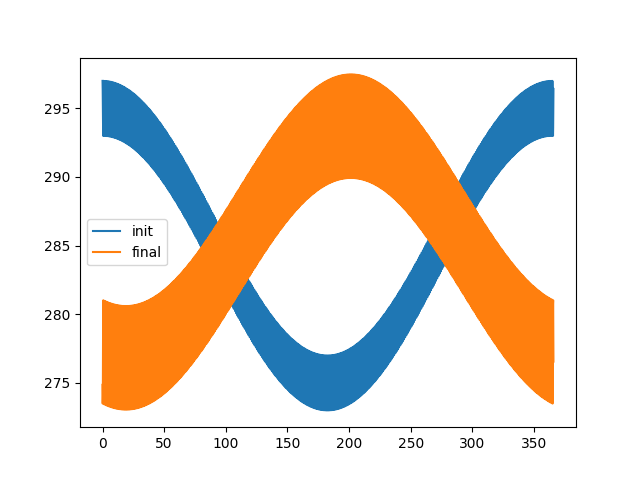
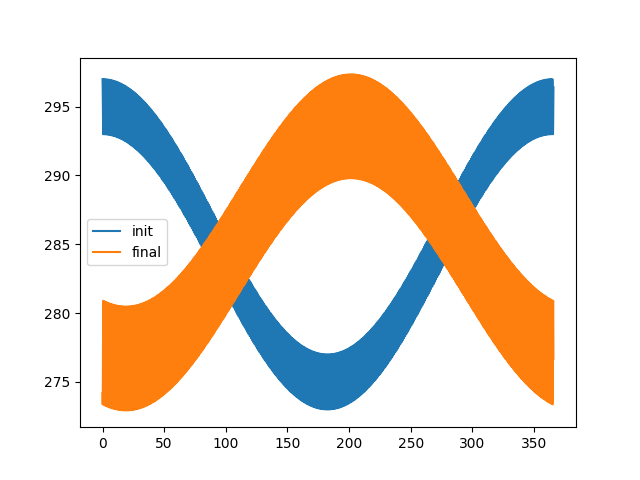
test 2 cosinus sur nouvelle bdd

diff --git a/donnees_collecte/meteo_france/analyse_station_unique/descente_cosinus/descente_cosinus.py b/donnees_collecte/meteo_france/analyse_station_unique/descente_cosinus/descente_cosinus.py
@@ -3,7 +3,7 @@ from matplotlib import pyplot as plt
 import numpy as np
 
 delta = 10**(-3)
-alpha = [1, 1, 1, 1, 0.1, 0.1, 0.1]
+alpha = [1, 1, 1, 0.1, 0.1]
 
 with open('../temperature.json') as jsonfile :
 	temperature = json.load(jsonfile)
@@ -20,7 +20,7 @@ dates.sort()
 
 
 def fct_test(X, x) :
-	return X[0]*np.cos(2*np.pi*x + X[4]) + X[1]*np.cos(2*np.pi*x/365 + X[5]) + X[2]*np.cos(4*np.pi*x + X[6]) + X[3]
+	return X[0]*np.cos(2*np.pi*x + X[3]) + X[1]*np.cos(2*np.pi*x/365 + X[4]) + X[2]
 
 def ecart_temperature(temperature_test) :
 	ecarts_temperature = 0
@@ -33,7 +33,7 @@ def ecart_temperature(temperature_test) :
 	return (ecarts_temperature/compt)**(1/2)
 
 
-X = np.array([2.0,10.0,0.0,285.0,0.0,0.0,0.0])
+X = np.array([2.0,10.0,285.0,0.0,0.0])
 # A,B,C,D,phi1,phi2,phi3
 # Acos(w1t + phi1) + Bcos(w2t+phi2) + Ccos(w3t+phi3) + D
 #w1 jour w2 annee w3 demi-journee
@@ -45,7 +45,7 @@ for i in range(100) :
 	val_actuel_ecart = ecart_temperature([dates,val_actuel])
 	if i == 0 :
 		plt.plot(dates, val_actuel, label='init')
-	dX = np.array([0.0,0.0,0.0,0.0,0.0,0.0,0.0])
+	dX = np.array([0.0,0.0,0.0,0.0,0.0])
 	for j in range(len(X)) :
 		X_modif = X.copy()
 		X_modif[j] = X_modif[j] + delta
@@ -57,8 +57,7 @@ for i in range(100) :
 		dX[j] = - df * alpha[j]
 	X = X + dX
 	X[4] = X[4]%(2*np.pi)
-	X[5] = X[5]%(2*np.pi)
-	X[6] = X[6]%(2*np.pi)
+	X[3] = X[3]%(2*np.pi)
 	#print(X)
 	if i%10 == 0 :
 		print("{} sur 100".format(i))
